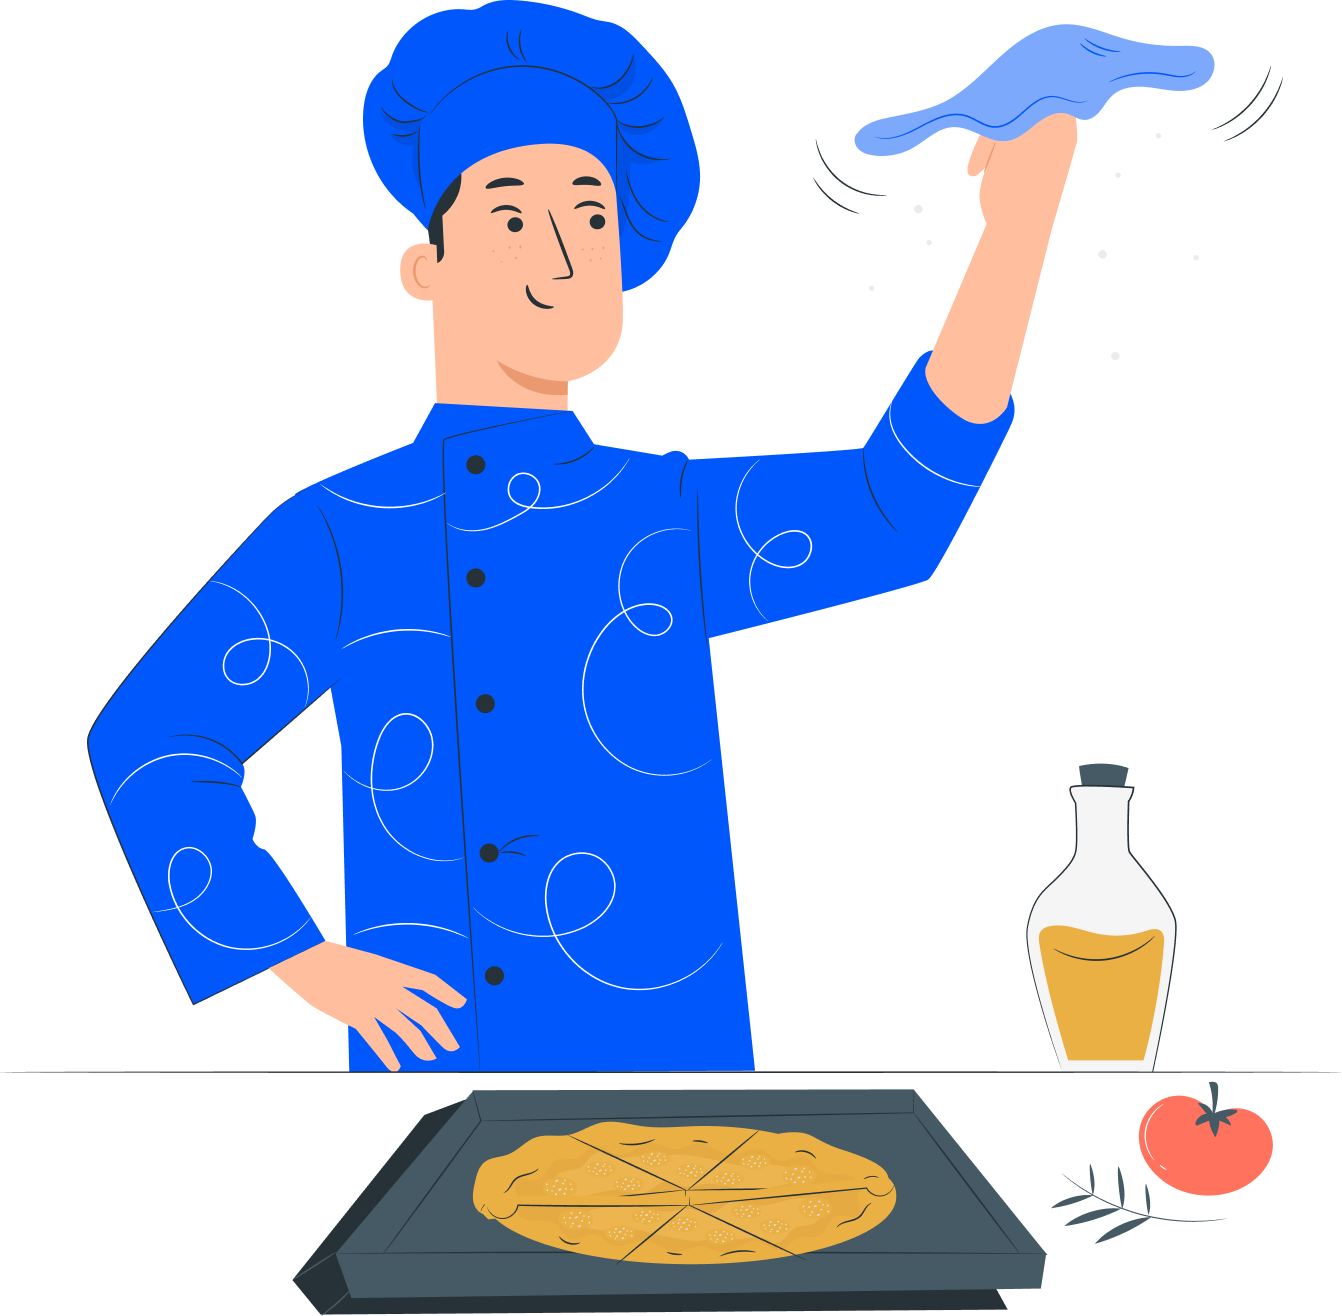
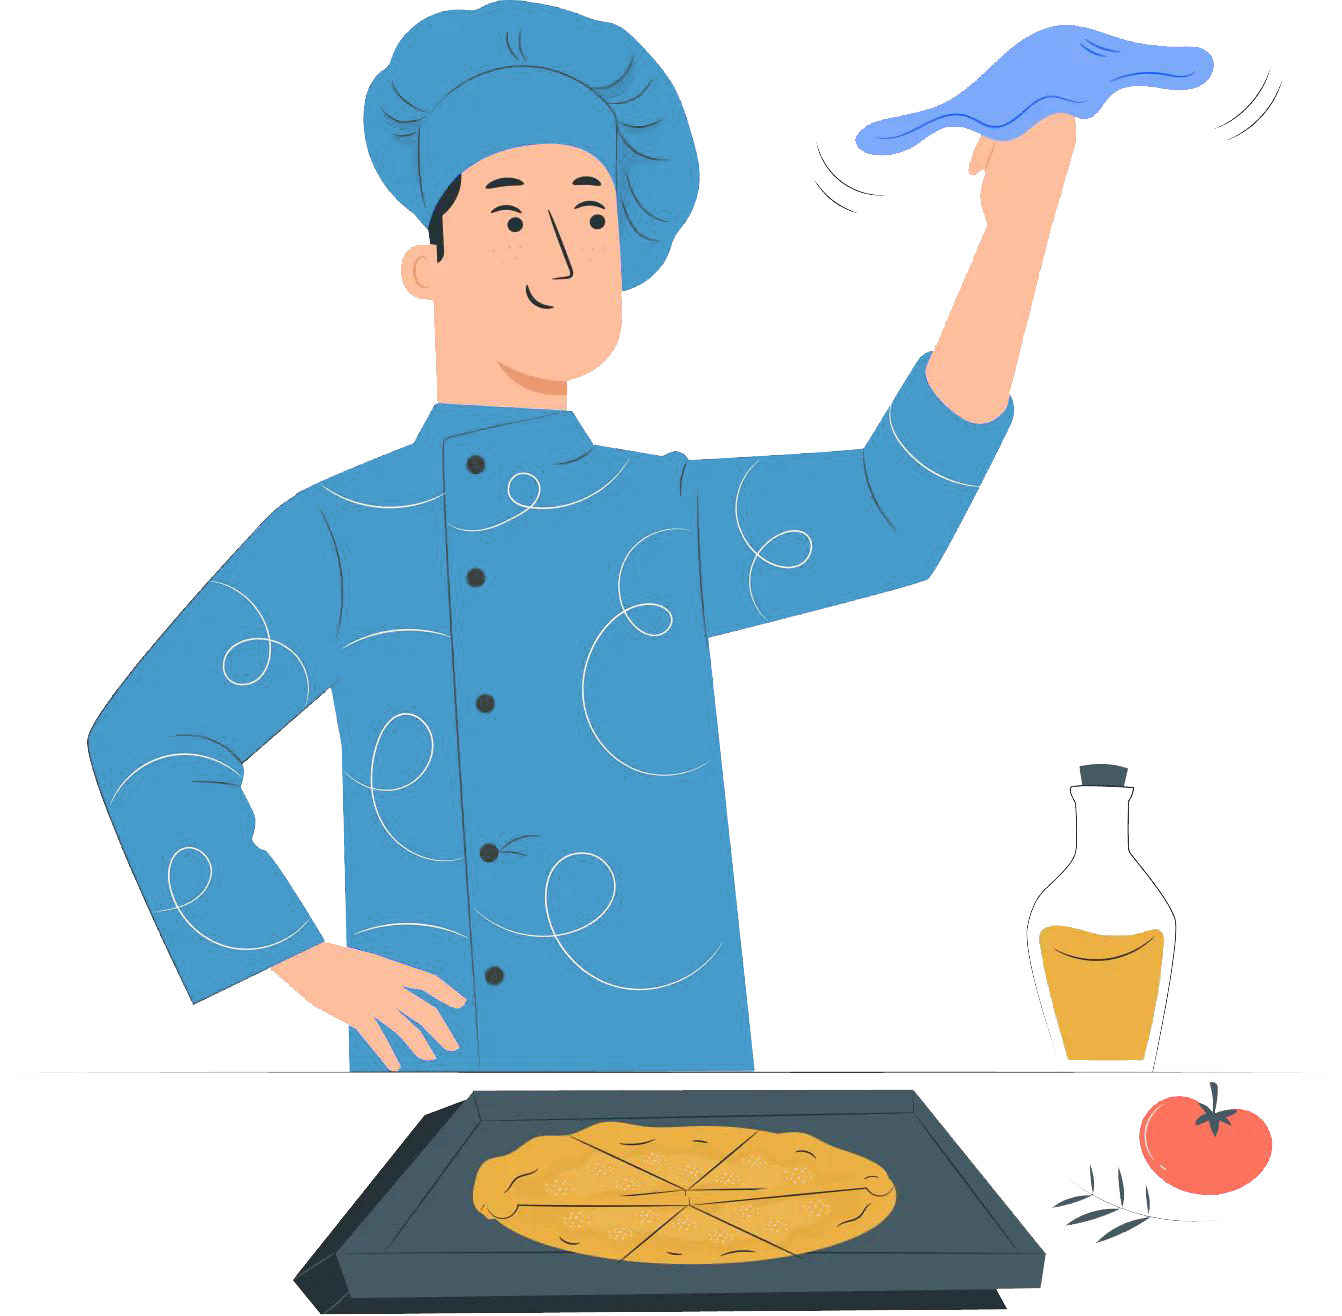
feat: Update image paths and fix typos

diff --git a/src/components/Pricing/WhyUseSides.tsx b/src/components/Pricing/WhyUseSides.tsx
@@ -20,43 +20,47 @@ const InfoCard = ({ info, value }: { info: string; value: string }) => {
 const WhyUseSides = () => {
   const t = useTranslations('Pricing');
   return (
-    <Wrapper style='bg-white-main py-8 md:py-16'>
-      <Heading text={t('Warum über 300 Kund:innen PayPoint nutzen')} />
-      <article className='w-full h-full max-w-[85%] mx-auto grid sm:grid-cols-2 md:grid-cols-3 lg:grid-cols-4 gap-4 py-10'>
-        {StaticData.Pricing.WhyCustomerUseUs.map((itm, idx) => (
-          <InfoCard info={itm.info} value={itm.value} key={idx} />
-        ))}
-      </article>
-      <div className='w-full h-full flex gap-2 justify-center items-center py-12 flex-wrap md:flex-nowrap'>
-        {StaticData.Pricing.PaymentIconImages.map((itm, idx) => (
-          <div key={idx} className='w-[3rem] h-[2.5rem] relative'>
-            <Image
-              src={itm}
-              alt='Paypoint Payment Mehod'
-              fill
-              className='object-contain w-full h-full'
-            />
-          </div>
-        ))}
-      </div>
-      <article className='w-full h-full max-w-[90%] mx-auto bg-white-lightOrange py-16'>
-        <div className='w-full h-full max-w-[80%] mx-auto flex flex-col gap-4 justify-center items-center'>
-          <h1 className='w-full h-full text-[1.8rem] md:text-[2.5rem] lg:text-[3rem] leading-7 sm:leading-8 md:leading-10 lg:leading-[3rem] text-center font-bold lg:max-w-[90%]'>
-            {t('Machen Sie mehr als 100000 € Umsatz pro Jahr?')}
-          </h1>
-          <p className='text-center font-medium'>
-            {t(
-              'Unser Sales-Team stellt Ihnen gerne eine passende Lösung Für Ihr Geschäft bereit'
-            )}
-          </p>
-          <Button
-            type='button'
-            className='bg-black-main text-white-main px-6 py-4 rounded-2xl text-center text-medium'>
-            {t('Kontaktieren Sie uns')}
-          </Button>
+    <>
+      <Wrapper style='bg-white-main py-8 md:py-16'>
+        <Heading text={t('Warum über 300 Kund:innen PayPoint nutzen')} />
+        <article className='w-full h-full max-w-[85%] mx-auto grid sm:grid-cols-2 md:grid-cols-3 lg:grid-cols-4 gap-4 py-10'>
+          {StaticData.Pricing.WhyCustomerUseUs.map((itm, idx) => (
+            <InfoCard info={itm.info} value={itm.value} key={idx} />
+          ))}
+        </article>
+        <div className='w-full h-full flex gap-2 justify-center items-center py-12 flex-wrap md:flex-nowrap'>
+          {StaticData.Pricing.PaymentIconImages.map((itm, idx) => (
+            <div key={idx} className='w-[3rem] h-[2.5rem] relative'>
+              <Image
+                src={itm}
+                alt='Paypoint Payment Mehod'
+                fill
+                className='object-contain w-full h-full'
+              />
+            </div>
+          ))}
         </div>
-      </article>
-    </Wrapper>
+      </Wrapper>
+      <Wrapper style='bg-primaryDark'>
+        <article className='w-full h-full max-w-[90%] mx-auto text-white-main py-16'>
+          <div className='w-full h-full max-w-[80%] mx-auto flex flex-col gap-4 justify-center items-center'>
+            <h1 className='w-full h-full text-[1.8rem] md:text-[2.5rem] lg:text-[3rem] leading-7 sm:leading-8 md:leading-10 lg:leading-[3rem] text-center font-bold lg:max-w-[90%]'>
+              {t('Machen Sie mehr als 100000 € Umsatz pro Jahr?')}
+            </h1>
+            <p className='text-center font-medium'>
+              {t(
+                'Unser Sales-Team stellt Ihnen gerne eine passende Lösung Für Ihr Geschäft bereit'
+              )}
+            </p>
+            <Button
+              type='button'
+              className='bg-white-main text-black-main font-medium px-6 py-4 rounded-2xl text-center'>
+              {t('Kontaktieren Sie uns')}
+            </Button>
+          </div>
+        </article>
+      </Wrapper>
+    </>
   );
 };
 

diff --git a/src/components/shared/layout/Navigation.tsx b/src/components/shared/layout/Navigation.tsx
@@ -87,7 +87,7 @@ const Navigation = () => {
                     key={idx}
                     className='relative text-xl break-keep font-semibold whitespace-nowrap group capitalize'>
                     <span className='pb-2'>{navbarTranslation(itm.name)}</span>
-                    <span className='absolute inset-x-0 bottom-0 h-[2.5px] bg-blue-dark transform origin-left scale-x-0 transition-transform group-hover:scale-x-100'></span>
+                    <span className='absolute inset-x-0 bottom-0 h-[2.5px] bg-primaryDark transform origin-left scale-x-0 transition-transform group-hover:scale-x-100'></span>
                   </Link>
                 );
               })}
@@ -139,7 +139,7 @@ const Navigation = () => {
                     <div key={idx} className='py-3 w-full border-b'>
                       <Link
                         href={itm.link}
-                        className='w-full text-xl hover:text-blue-dark text-black-main hover:underline font-semibold'>
+                        className='w-full text-xl hover:text-primaryDark text-black-main hover:underline font-semibold'>
                         {navbarTranslation(itm.name)}
                       </Link>
                     </div>
@@ -148,7 +148,7 @@ const Navigation = () => {
                   <div key={idx} className='py-3 w-full border-b'>
                     <Link
                       href={itm.link}
-                      className='w-full text-xl hover:text-blue-dark text-black-main hover:underline font-semibold'>
+                      className='w-full text-xl hover:text-primaryDark text-black-main hover:underline font-semibold'>
                       {navbarTranslation(itm.name)}
                     </Link>
                   </div>
@@ -156,7 +156,7 @@ const Navigation = () => {
               })}
             </div>
             <Button
-              className='rounded-3xl text-xl bg-blue-light hover:bg-blue-dark text-white-main px-4 py-4 font-semibold mt-2 flex justify-center w-full outline-none border-none focus:outline-none focus:border-none'
+              className='rounded-3xl text-xl bg-primary hover:bg-primaryDark text-white-main px-4 py-4 font-semibold mt-2 flex justify-center w-full outline-none border-none focus:outline-none focus:border-none'
               type='button'>
               {t('TryButton')}
             </Button>

diff --git a/src/components/Home/Features.tsx b/src/components/Home/Features.tsx
@@ -12,7 +12,7 @@ const Features = () => {
     <Wrapper style='py-10'>
       <section className='w-full h-full grid md:grid-cols-2 gap-4 md:gap-2 '>
         <article className='w-full h-full flex flex-col items-start gap-3 md:max-w-[80%] mx-auto'>
-          <h5 className='text-blue-royal text-xl font-bold'>{t('Features')}</h5>
+          <h5 className='text-primary text-xl font-bold'>{t('Features')}</h5>
           <h1 className='font-black text-[2.3rem] leading-[2.3rem] md:text-[3.4rem] md:leading-[2.9rem] text-wrap'>
             {t('Kümmern Sie sich um Leckeres Essen, den Rest erledigen wir')}
           </h1>
@@ -22,7 +22,7 @@ const Features = () => {
               <li
                 key={idx}
                 className='w-full h-full flex justify-start gap-2 items-center'>
-                <div className='w-[1.7rem] h-[1.7rem] rounded-full text-white-main bg-blue-royal p-1 flex items-center justify-center'>
+                <div className='w-[1.7rem] h-[1.7rem] rounded-full text-white-main bg-primary p-1 flex items-center justify-center'>
                   <MdOutlineDone size={20} />
                 </div>
                 {t(itm)}
@@ -30,7 +30,7 @@ const Features = () => {
             ))}
           </ul>
           <Button
-            className='bg-blue-royal px-8 py-6 rounded-md font-semibold text-white-main border-none mt-4 text-lg md:text-xl'
+            className='bg-primary px-8 py-6 rounded-md font-semibold text-white-main border-none mt-4 text-lg md:text-xl'
             type='button'>
             {t('Demo anfordern')}
           </Button>

diff --git a/src/components/Home/Hero.tsx b/src/components/Home/Hero.tsx
@@ -22,7 +22,7 @@ const InfoCard = ({
   const t = useTranslations('Landing');
   //@ts-ignore
   if (Icon === 'IoBug') {
-    bgColor = 'bg-blue-dark';
+    bgColor = 'bg-primaryDark';
   }
   if (title === 'Keine Manuelle Arbeit') {
     bgColor = 'bg-[#FFD800]';
@@ -69,12 +69,12 @@ const Hero = () => {
                     'https://forms.gastrosoft.de/gastrosoftgmbh/form/UnverbindlichesAngebotfrDeinGastroSoftKassensystem/formperma/DJVmlx_F57t2rzGQnzLown0G26T_Yfc9O7QaO7lSzrw'
                   )
                 }
-                className='rounded-3xl text-xl bg-blue-light hover:bg-blue-dark text-white-main px-4 py-6 font-bold flex justify-center w-full outline-none border-none focus:outline-none focus:border-none'
+                className='rounded-3xl text-xl bg-primary hover:bg-primaryDark text-white-main px-4 py-6 font-bold flex justify-center w-full outline-none border-none focus:outline-none focus:border-none'
                 type='button'>
                 {t('TryButton')}
               </Button>
               <Button
-                className='rounded-3xl text-xl border-blue-light border-[1px] text-blue-light px-4 py-6 font-bold flex justify-center w-full'
+                className='rounded-3xl text-xl border-primary border-[1px] text-primary px-4 py-6 font-bold flex justify-center w-full'
                 type='button'>
                 {t('ExploreButton')}
               </Button>

diff --git a/src/components/AboutUs/ForContact.tsx b/src/components/AboutUs/ForContact.tsx
@@ -8,7 +8,7 @@ const ForContact = () => {
   const t = useTranslations('Aboutus');
   return (
     <Wrapper style='w-full h-full bg-white-lightOrange py-4 sm:py-6 md:py-10'>
-      <div className='w-full h-full flex flex-col gap-4 md:px-10 md:max-w-[50%] mx-auto'>
+      <div className='w-full h-full flex flex-col gap-4 md:px-10 md:max-w-[40%] mx-auto'>
         <div className='w-full h-[12rem] relative'>
           <Image
             src='/Assets/AboutUs/user.png'
@@ -21,7 +21,7 @@ const ForContact = () => {
         <h5 className='font-semibold text-xl md:text-3xl text-center'>
           {t('Wir suchen kluge Köpfe')}
         </h5>
-        <p className=' text-lg md:text-2xl font-medium text-center px-4'>
+        <p className=' text-lg md:text-2xl text-center px-4'>
           {t(
             'Was wäre eine ständig wachsende Firma ohne Zuwachs? Wenn Du eine neue Herausforderung suchst, können wir Dir vielleicht helfen'
           )}

diff --git a/tailwind.config.ts b/tailwind.config.ts
@@ -17,6 +17,10 @@ module.exports = {
         xs: '450px',
       },
       colors: {
+        primary: '#5897CD',
+        primaryDark: '#0071BB',
+        bgApp: '#f6f6f6',
+
         main: {
           brand: '#5897CD',
           off: '',
@@ -29,9 +33,7 @@ module.exports = {
         },
         white: {
           main: '#FFFFFF',
-          off: '#FAF7F3',
           lightOrange: '#f6f6f6',
-
           snow: '#F3ECDA',
         },
         black: {
@@ -39,20 +41,14 @@ module.exports = {
           text: '#0e1318',
         },
         grey: {
-          off: 'F6F6F6',
           text: '#526370',
           pText: '#4a4e57',
         },
-        yellow: {
-          main: '#FFD800',
-        },
+
         red: {
           cool: '#E06259',
           dark: '#5A0024',
           neon: '#FF3131',
-        },
-        orange: {
-          main: '#ff8300',
         },
       },
       boxShadow: {

diff --git a/src/components/AboutUs/Hero.tsx b/src/components/AboutUs/Hero.tsx
@@ -10,7 +10,7 @@ const Hero = () => {
       <div className='w-full h-full  flex flex-col md:flex-row gap-4'>
         <div className='w-full md:max-w-[40%] h-full  flex flex-col justify-between gap-4 lg:gap-16 lg:pt-20'>
           <h1 className='font-bold md:h-full text-[4rem] lg:text-[5rem] leading-[5rem] lg:leading-[5rem]'>
-            <span>{t('Wir sind')}</span> <span className='text-blue-dark'>Paypoint.</span>
+            <span>{t('Wir sind')}</span> <span className='text-primaryDark'>PayPoint.</span>
           </h1>
           <p className='text-base md:h-full md:text-lg text-black-text'>
             {t(

diff --git a/src/components/Pricing/Workplace.tsx b/src/components/Pricing/Workplace.tsx
@@ -33,8 +33,8 @@ const ServicesCard = ({
       onClick={handleClick}
       className={`w-full h-full lg:h-[25rem] text-grey-pText flex flex-col space-y-between bg-white-main py-6 hover:border hover:border-main-brand hover:shadow-md`}>
       {title === 'Paypoint' ? (
-        <div className='flex justify-center'>
-          <div className='w-[24rem] h-20 relative r'>
+        <div className='flex justify-center items-center'>
+          <div className='w-[18rem] h-12 relative r'>
             <Image
               src='/Assets/Pricing/paypoint_pay.jpeg'
               alt=''

diff --git a/src/components/Home/Home.tsx b/src/components/Home/Home.tsx
@@ -17,7 +17,7 @@ const Home = () => {
       <Hero />
       {/* Features Section */}
       <Features />
-      <div className='w-full h-full flex flex-col gap-3 '>
+      <div className='w-full h-full flex flex-col gap-3 md:gap-4 lg:gap-5 '>
         <ContentOnRightVideoOnLeft
           title='Deine eigene App und Webshop Individuell und unabhängig'
           text='Fange ganz einfach an zu bauen Der Template- Markt und das intuitive Design von Tape ermöglichen es dir, selbst komplexe Anforderungen abzubilden'

diff --git a/src/components/Restaurant/Hero.tsx b/src/components/Restaurant/Hero.tsx
@@ -36,7 +36,7 @@ const Hero = () => {
               {t('und verwaltest alle Bestellungen an einem Ort')}
             </p>
             <div className='w-full h-full md:px-4'>
-              <Button className='bg-blue-light px-6 py-7 capitalize text-xl text-white-main rounded-lg'>
+              <Button className='bg-primary px-6 py-7 capitalize text-xl text-white-main rounded-lg'>
                 {t('Kontaktieren Sie uns')}
               </Button>
             </div>

diff --git a/src/components/Contactus/Contactus.tsx b/src/components/Contactus/Contactus.tsx
@@ -66,7 +66,7 @@ const Contactus = () => {
         <article className='w-full h-full md:max-w-[85%] mx-auto space-y-4  py-4'>
           <h1 className='font-bold text-[2.5rem] text-center'>
             {t('Submit the form and')}
-            <span className='pb-[3px] border-b-blue-light border-b-[3px] ml-2'>
+            <span className='pb-[3px] border-b-primary border-b-[3px] ml-2'>
               {t('get the demo')}
             </span>
           </h1>

diff --git a/src/components/LifeStyle/Hero.tsx b/src/components/LifeStyle/Hero.tsx
@@ -35,7 +35,7 @@ const Hero = () => {
               )}
             </p>
             <div className='w-full h-full md:px-4'>
-              <Button className='bg-blue-light px-6 py-7 capitalize text-xl text-white-main rounded-lg'>
+              <Button className='bg-primary px-6 py-7 capitalize text-xl text-white-main rounded-lg'>
                 {t('Kontaktieren Sie uns')}
               </Button>
             </div>
